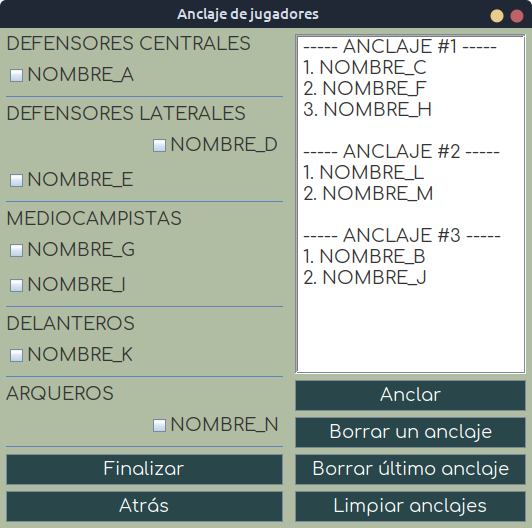
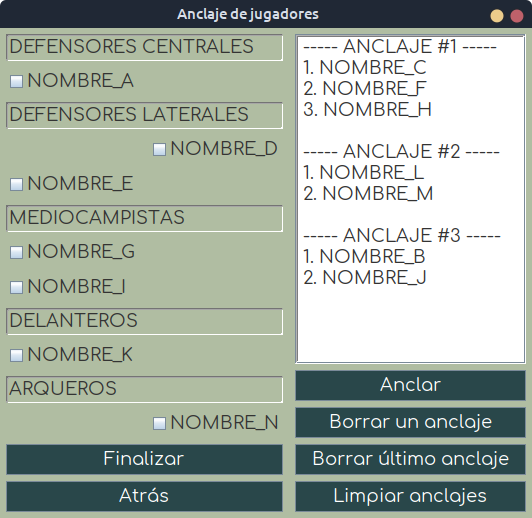
previous GUI fix also applied to AnchorageFrame

diff --git a/src/main/java/armameeldoparti/frames/AnchorageFrame.java b/src/main/java/armameeldoparti/frames/AnchorageFrame.java
@@ -15,11 +15,12 @@ import javax.swing.JLabel;
 import javax.swing.JOptionPane;
 import javax.swing.JPanel;
 import javax.swing.JScrollPane;
-import javax.swing.JSeparator;
 import javax.swing.JTextArea;
 import javax.swing.ScrollPaneConstants;
-import javax.swing.SwingConstants;
 import javax.swing.WindowConstants;
+import javax.swing.border.BevelBorder;
+import javax.swing.border.SoftBevelBorder;
+
 import net.miginfocom.swing.MigLayout;
 
 /**
@@ -270,15 +271,13 @@ public class AnchorageFrame extends JFrame {
     private void addCBSet(JPanel panel, ArrayList<JCheckBox> cbSet, String title) {
         JLabel label = new JLabel(title);
 
-        JSeparator line = new JSeparator(SwingConstants.HORIZONTAL);
+        label.setBorder(new SoftBevelBorder(BevelBorder.LOWERED));
 
-        panel.add(label, "span");
+        panel.add(label, GROWX_SPAN);
 
         for (JCheckBox cb : cbSet) {
             panel.add(cb, "align left, pushx");
         }
-
-        panel.add(line, GROWX_SPAN);
     }
 
     /**

diff --git a/README.md b/README.md
@@ -24,7 +24,7 @@ Release date: TBD
 - [Capturas de pantalla](https://github.com/akmsw/armame-el-doparti#-capturas-de-pantalla)
 
 ## 🔎 ¿Qué es?
-Construido completamente en Java y refactorizado en su totalidad, la nueva versión de este programa ofrece una intuitiva y rápida manera de generar equipos para partidos de fútbol 7 u 8, ya sea con distribución aleatoria de jugadores o basada en puntuaciones. Se ofrece la posibilidad de asociar dos o más jugadores garantizando así que, sin importar la distribución elegida, quedarán en el mismo equipo.
+Construido completamente en Java y refactorizado en su totalidad, la nueva versión de este programa ofrece una rápida e intuitiva manera de generar equipos para partidos de fútbol 7 u 8, ya sea con distribución aleatoria de jugadores o basada en puntuaciones. Se ofrece la posibilidad de "anclar" dos o más jugadores entre sí, garantizando de esta forma que quedarán en el mismo equipo sin importar la distribución elegida.
 
 ## 📦 Requisitos
 ### ☕ Java
